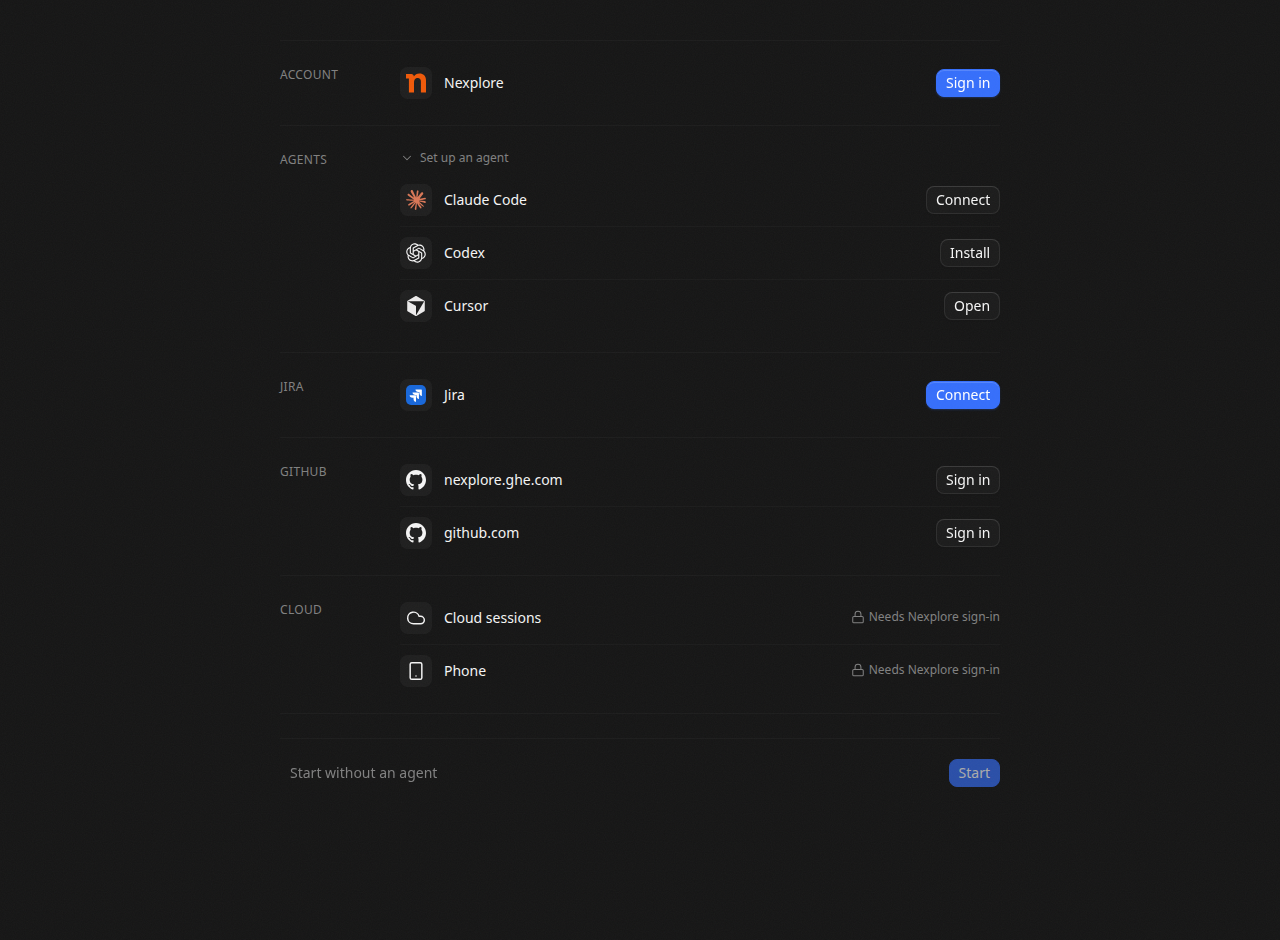
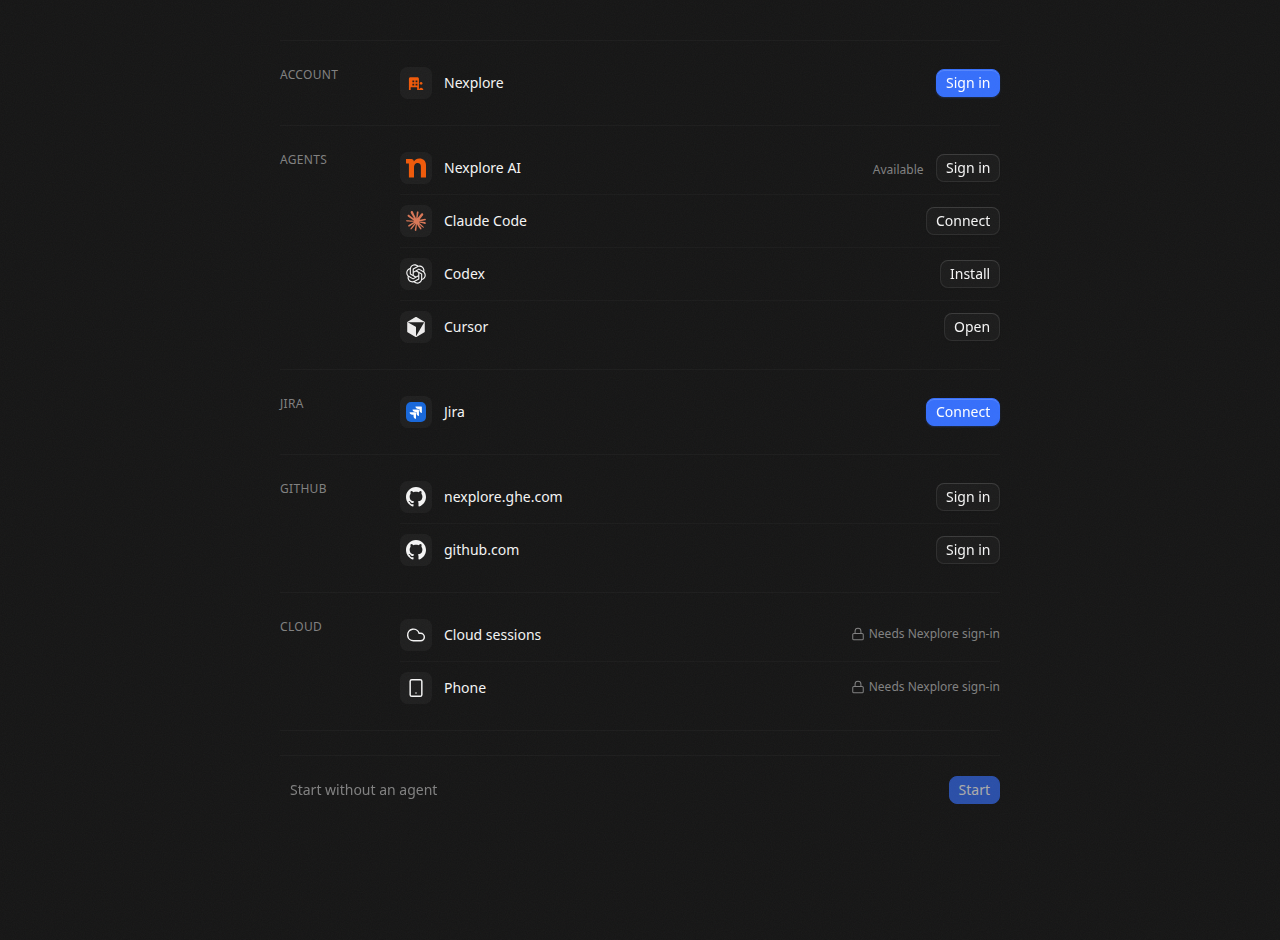
feat(web): distinct Nexplore account mark + full agent list
Account row uses a building/person org glyph in brand orange instead of
the Nexplore AI "n". Agents section drops Add more collapse and lists
Nexplore AI, Claude Code, Codex, and Cursor with status/actions visible.
Refresh Storybook evidence screenshots.

diff --git a/apps/web/src/t3team/stories/welcome/t3team-NexiWelcomeSections.fixtures.tsx b/apps/web/src/t3team/stories/welcome/t3team-NexiWelcomeSections.fixtures.tsx
@@ -13,10 +13,10 @@ import {
   PrimaryAction,
   SecondaryAction,
   ServiceMark,
-  ShowMore,
   StatusLabel,
   WelcomeItem,
 } from "./t3team-NexiWelcomeLayout.fixtures";
+import { NexploreAccountMark } from "./t3team-NexploreAccountMark";
 import type {
   AccountStoryState,
   AgentsStoryState,
@@ -88,7 +88,7 @@ function AgentItem({
 export function AccountBlock({ state }: { readonly state: AccountStoryState }) {
   const mark = (
     <ServiceMark label="Nexplore">
-      <NexploreAI aria-hidden />
+      <NexploreAccountMark />
     </ServiceMark>
   );
 
@@ -144,11 +144,35 @@ export function AccountBlock({ state }: { readonly state: AccountStoryState }) {
 }
 
 export function AgentsBlock({ state }: { readonly state: AgentsStoryState }) {
-  const extras = (
-    <ShowMore
-      open={state === "none" || state === "addMoreOpen" || state === "unreachable"}
-      label={state === "none" ? "Set up an agent" : "Add more agents"}
-    >
+  const nexplore =
+    state === "ready" ? (
+      <AgentItem
+        mark={<NexploreAI aria-hidden />}
+        markLabel="Nexplore AI"
+        title="Nexplore AI"
+        status={<StatusLabel status="ready" label="Ready" />}
+      />
+    ) : state === "unreachable" ? (
+      <AgentItem
+        mark={<NexploreAI aria-hidden />}
+        markLabel="Nexplore AI"
+        title="Nexplore AI"
+        description="Could not reach Nexplore AI."
+        action={<SecondaryAction onClick={noop}>Manual setup</SecondaryAction>}
+      />
+    ) : (
+      <AgentItem
+        mark={<NexploreAI aria-hidden />}
+        markLabel="Nexplore AI"
+        title="Nexplore AI"
+        status={<StatusLabel status="action" label="Available" />}
+        action={<SecondaryAction onClick={noop}>Sign in</SecondaryAction>}
+      />
+    );
+
+  return (
+    <>
+      {nexplore}
       <AgentItem
         mark={<ClaudeAI aria-hidden />}
         markLabel="Claude Code"
@@ -167,37 +191,8 @@ export function AgentsBlock({ state }: { readonly state: AgentsStoryState }) {
         title="Cursor"
         action={<SecondaryAction onClick={noop}>Open</SecondaryAction>}
       />
-    </ShowMore>
+    </>
   );
-
-  if (state === "ready") {
-    return (
-      <>
-        <AgentItem
-          mark={<NexploreAI aria-hidden />}
-          markLabel="Nexplore AI"
-          title="Nexplore AI"
-          status={<StatusLabel status="ready" label="Ready" />}
-        />
-        {extras}
-      </>
-    );
-  }
-  if (state === "unreachable") {
-    return (
-      <>
-        <AgentItem
-          mark={<NexploreAI aria-hidden />}
-          markLabel="Nexplore AI"
-          title="Nexplore AI"
-          description="Could not reach Nexplore AI."
-          action={<SecondaryAction onClick={noop}>Manual setup</SecondaryAction>}
-        />
-        {extras}
-      </>
-    );
-  }
-  return extras;
 }
 
 export function RoleBlock() {

diff --git a/apps/web/src/t3team/stories/welcome/t3team-NexiWelcomeLayout.fixtures.tsx b/apps/web/src/t3team/stories/welcome/t3team-NexiWelcomeLayout.fixtures.tsx
@@ -1,7 +1,6 @@
 import type { ReactNode } from "react";
-import { CheckIcon, ChevronDownIcon, CircleDashedIcon, LockIcon } from "lucide-react";
+import { CheckIcon, CircleDashedIcon, LockIcon } from "lucide-react";
 
-import { Collapsible, CollapsiblePanel, CollapsibleTrigger } from "~/components/ui/collapsible";
 import { Button } from "~/t3team/components/ui/t3team-button";
 
 /** Shared mark tile — same size/placement for Nexplore, Jira, GitHub, agents. */
@@ -151,26 +150,6 @@ export function StartFooter({
         Start
       </Button>
     </div>
-  );
-}
-
-export function ShowMore({
-  open,
-  label,
-  children,
-}: {
-  readonly open?: boolean;
-  readonly label: string;
-  readonly children: ReactNode;
-}) {
-  return (
-    <Collapsible defaultOpen={open}>
-      <CollapsibleTrigger className="flex w-full items-center gap-1.5 py-2 text-xs text-muted-foreground hover:text-foreground">
-        <ChevronDownIcon className="size-3.5" />
-        {label}
-      </CollapsibleTrigger>
-      <CollapsiblePanel className="divide-y divide-border/40 pb-1">{children}</CollapsiblePanel>
-    </Collapsible>
   );
 }
 

diff --git a/apps/web/src/t3team/stories/welcome/t3team-NexploreAccountMark.tsx b/apps/web/src/t3team/stories/welcome/t3team-NexploreAccountMark.tsx
@@ -1,0 +1,21 @@
+/* oxlint-disable shadcn/no-raw-colors -- brand mark keeps Nexplore orange, like NexploreAIIcon. */
+import type { SVGProps } from "react";
+
+/**
+ * Nexplore account / org mark for welcome Account rows.
+ * Building + person glyph in brand orange (`#f05a0a`) — deliberately not the
+ * lowercase "n" used by `NexploreAI` so Entra sign-in is never confused with
+ * the Nexplore AI agent. Shapes stay chunky so they read at ServiceMark size.
+ */
+export function NexploreAccountMark(props: SVGProps<SVGSVGElement>) {
+  return (
+    <svg viewBox="0 0 24 24" fill="none" aria-hidden {...props}>
+      <path
+        fill="#f05a0a"
+        d="M3.5 20.5V6.75c0-.97.78-1.75 1.75-1.75h8.5c.97 0 1.75.78 1.75 1.75V20.5h-2.1V17.2h-7.8v3.3H3.5Zm4.15-5.55h2.2v-2.2h-2.2v2.2Zm0-3.85h2.2v-2.2h-2.2v2.2Zm3.85 3.85h2.2v-2.2h-2.2v2.2Zm0-3.85h2.2v-2.2h-2.2v2.2Z"
+      />
+      <circle cx="18.1" cy="12.4" r="1.55" fill="#f05a0a" />
+      <path fill="#f05a0a" d="M15.35 20.5c.2-1.85 1.35-2.95 2.75-2.95s2.55 1.1 2.75 2.95H15.35Z" />
+    </svg>
+  );
+}

diff --git a/apps/web/src/t3team/stories/welcome/t3team-NexiWelcomeFinish.stories.tsx b/apps/web/src/t3team/stories/welcome/t3team-NexiWelcomeFinish.stories.tsx
@@ -10,6 +10,7 @@ import {
   WelcomePageShell,
   WelcomeSection,
 } from "./t3team-NexiWelcomeLayout.fixtures";
+import { NexploreAccountMark } from "./t3team-NexploreAccountMark";
 
 type FinishItem = {
   readonly label: string;
@@ -36,7 +37,9 @@ function FinishSummary({ items }: { readonly items: readonly FinishItem[] }) {
               key={item.label}
               mark={
                 <ServiceMark label={item.label}>
-                  {item.label === "Nexplore" || item.label === "Agents" ? (
+                  {item.label === "Nexplore" ? (
+                    <NexploreAccountMark />
+                  ) : item.label === "Agents" ? (
                     <NexploreAI aria-hidden />
                   ) : (
                     <span className="text-xs font-semibold">{item.label.slice(0, 1)}</span>

diff --git a/apps/web/src/t3team/stories/welcome/t3team-NexiWelcomePage.stories.tsx b/apps/web/src/t3team/stories/welcome/t3team-NexiWelcomePage.stories.tsx
@@ -33,7 +33,7 @@ export const SkippedOptional: Story = { args: { scenario: SCENARIOS.SkippedOptio
 /** Role section only when the feature toggle is on (off by default in product). */
 export const RoleToggleOn: Story = { args: { scenario: SCENARIOS.RoleToggleOn } };
 
-/** Nexplore AI unreachable — manual path + Add more agents. */
+/** Nexplore AI unreachable — manual path; full agent list still visible. */
 export const NexploreAIUnreachable: Story = {
   args: { scenario: SCENARIOS.NexploreAIUnreachable },
 };

diff --git a/apps/web/src/t3team/stories/welcome/t3team-NexiWelcomeScenario.fixtures.tsx b/apps/web/src/t3team/stories/welcome/t3team-NexiWelcomeScenario.fixtures.tsx
@@ -17,7 +17,7 @@ export type AccountStoryState =
   | "serverUnreachable"
   | "skipped";
 
-export type AgentsStoryState = "ready" | "unreachable" | "none" | "addMoreOpen";
+export type AgentsStoryState = "ready" | "unreachable" | "none";
 
 export type JiraStoryState = "notConnected" | "tokenFallback" | "connected" | "skipped";
 

diff --git a/apps/web/src/t3team/stories/welcome/t3team-NexiWelcomeAgents.stories.tsx b/apps/web/src/t3team/stories/welcome/t3team-NexiWelcomeAgents.stories.tsx
@@ -30,14 +30,6 @@ export const NoneFound: Story = {
   ),
 };
 
-export const AddMoreOpen: Story = {
-  render: () => (
-    <SectionFrame title="Agents">
-      <AgentsBlock state="addMoreOpen" />
-    </SectionFrame>
-  ),
-};
-
 export const NexploreUnreachable: Story = {
   render: () => (
     <SectionFrame title="Agents">
